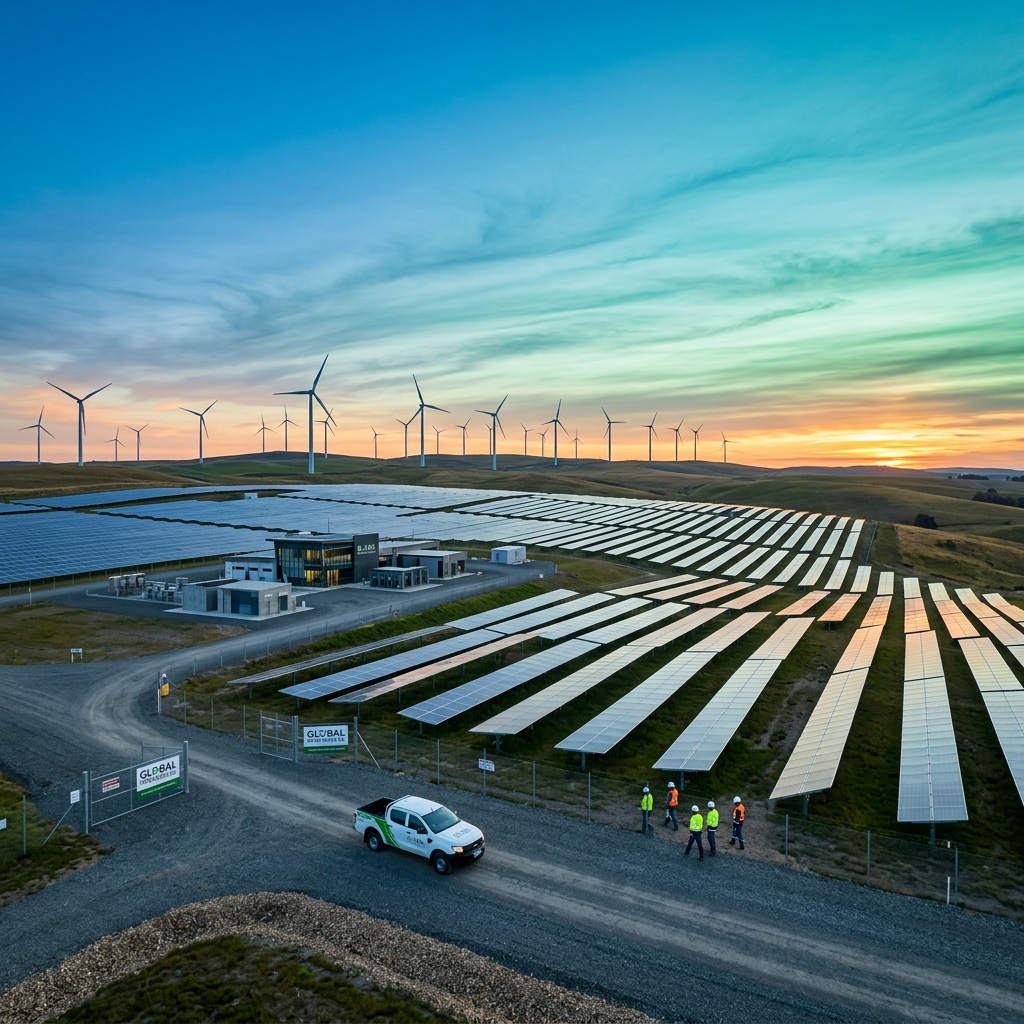
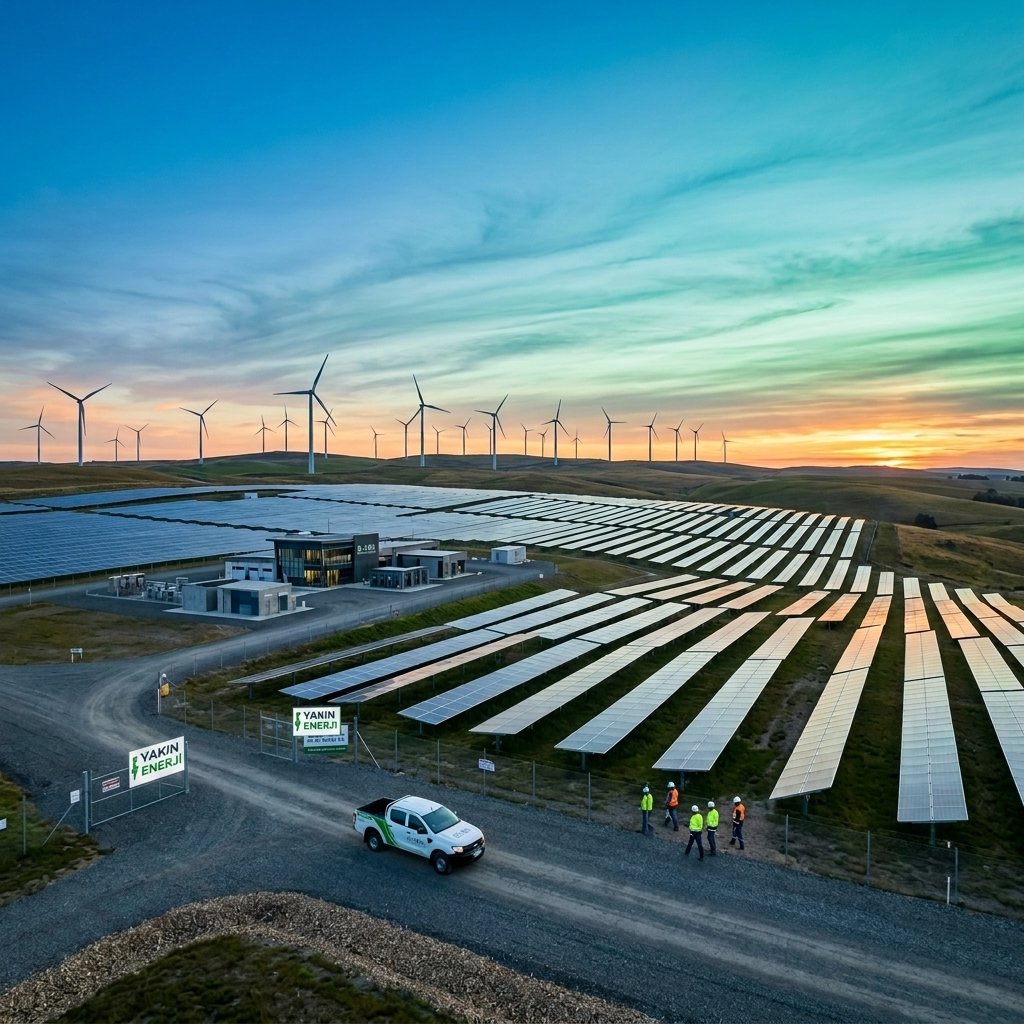
Replace gate signboards with photorealistic natural lighting integrated YAKIN ENERJİ image

diff --git a/index.html b/index.html
@@ -8,7 +8,7 @@
   <link rel="preconnect" href="https://fonts.googleapis.com">
   <link rel="preconnect" href="https://fonts.gstatic.com" crossorigin>
   <link href="https://fonts.googleapis.com/css2?family=Inter:wght@300;400;500;600;700;800&family=Manrope:wght@400;500;600;700;800&display=swap" rel="stylesheet">
-  <link rel="stylesheet" href="style.css?v=20260812_116">
+  <link rel="stylesheet" href="style.css?v=20260812_117">
 </head>
 <body>
 
@@ -1392,6 +1392,6 @@
     </div>
   </dialog>
 
-  <script src="app.js?v=20260812_116"></script>
+  <script src="app.js?v=20260812_117"></script>
 </body>
 </html>
